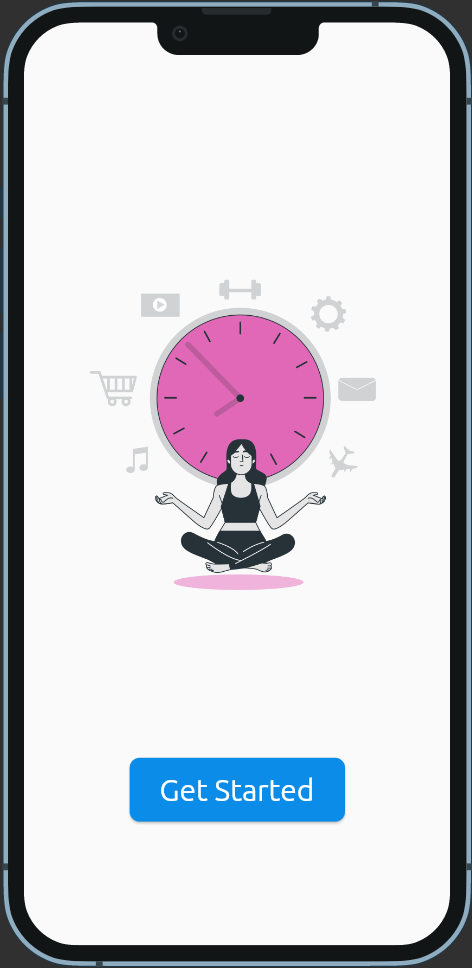
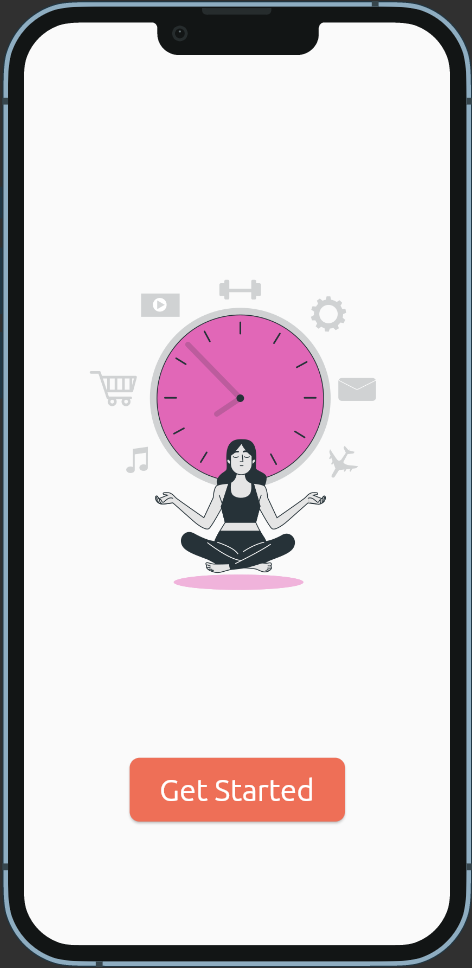
readme screenshot updated

Changed region(s): [[0.2669, 0.7748, 0.7415, 0.8678]]

diff --git a/On-boarding/main_todo_app/lib/features/task managment.dart/presentation/pages/onboarding.dart b/On-boarding/main_todo_app/lib/features/task managment.dart/presentation/pages/onboarding.dart
@@ -24,7 +24,7 @@ class OnboardingPage extends StatelessWidget {
                 padding: const MaterialStatePropertyAll(
                     EdgeInsets.symmetric(vertical: 15, horizontal: 30)),
                 backgroundColor:
-                    const MaterialStatePropertyAll(Color(0xFF0C8CE9))),
+                    const MaterialStatePropertyAll(Color(0xFFEE6F57))),
             onPressed: () {
               Navigator.push(context,
                   MaterialPageRoute(builder: (context) => const HomePage()));
